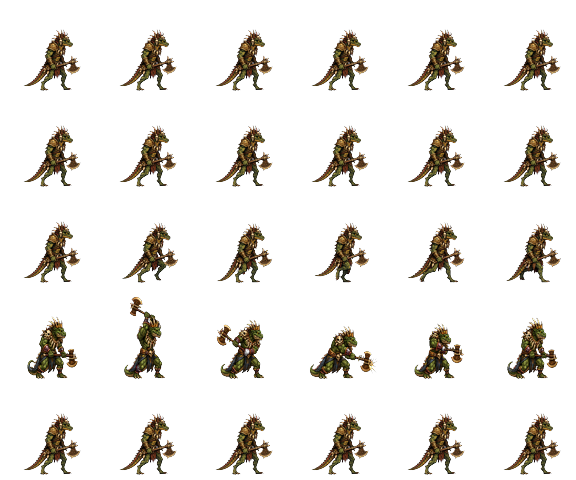
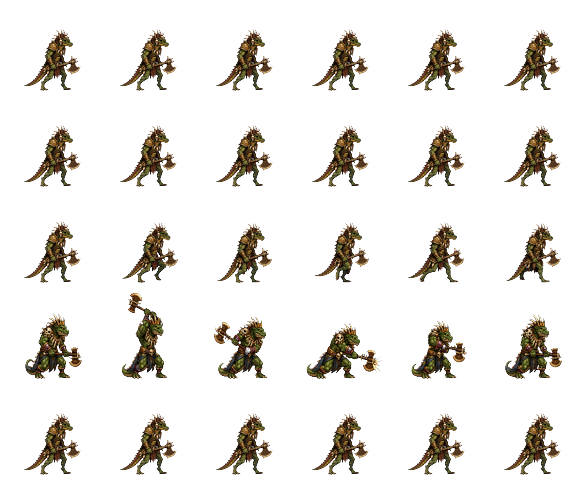
sprite: リザードマン族長の攻撃6コマを v3-tightmatch へ差替 + 黒背景の焼き付きを修正
作業ツリーに数セッション前から残っていた未コミット版は、攻撃行(row3)の
不透明率が 100% (79% が純黒 (0,0,0,255)) で、背景の黒が焼き付いていた。
displaySize 248 で描画されるため、ゲーム内では攻撃モーション中だけ
248px の黒い四角が出る不具合だった。

- codex1 の lizardman-chief-attack-right-6-v3-tightmatch から再パック。
  元フレーム自体は正常な RGBA なので、透過が落ちていたのはパック工程。
- 台帳 tools/codex1_sprites.json の char_ratio を 0.86 → 0.90236 に校正
  (= 0.86 × 533/508。attack 素材の H_max が 508→533 に伸びた分の打ち消し)。
  これで walk/idle/alert/death の 4 行が差替前とバイト完全一致するため、
  displaySize 248 と当たり判定は不変。
- 検証: 分身チェック clean / セル端のはみ出し 0 / 攻撃行の不透明率 14〜17%
  / 台帳の --only lizardChieftain 再パックが md5 一致 (894cc65…)
- 冗長なバックアップ assets/lizardChieftain_anim_before_attack_size_fix.png
  を削除 (HEAD と md5 一致のため情報の損失なし)
- ブラウザキャッシュ対策で index.html の ?v=2 → ?v=3

diff --git a/tavern.html b/tavern.html
@@ -1979,10 +1979,10 @@
     <div id="changelogBox">
       <div class="changelogHeader">📜 更新情報</div>
       <ul class="changelogList">
+        <li><b>リザードマン族長の攻撃モーションを刷新</b> — 斧を振りかぶる動きが一回り大きくなり、沼のボス戦の迫力が増した。</li>
         <li><b>竜の巣の前庭を横スクロール風の構図に</b> — 奥の壁に巣へ続く大穴が口を開け、赤竜の待つ先が絵で見えるようになった。</li>
         <li><b>地下神殿の納骨堂の景色を作り直した</b> — 奥に骨壺の壁龕と、封印された大扉が見えるようになった。</li>
         <li><b>砦の中庭に主塔の城壁が立った</b> — オークの中庭が横スクロール風の構図になり、閉ざされた大扉の向こうに将軍が待つ。</li>
-        <li><b>沼の祭壇広場に神殿の奥壁が立った</b> — リザードマンの広場が横スクロール風の構図になり、奥行きが出た。</li>
       </ul>
     </div>
     <script>

diff --git a/index.html b/index.html
@@ -6361,7 +6361,7 @@
         name: "リザードマン族長",
         flavor: "蛇神を祀る沼の主、ファラクサスの忠実なる走狗",
         badge: "🦎",
-        sprite: "assets/lizardChieftain_anim.png?v=2",
+        sprite: "assets/lizardChieftain_anim.png?v=3",
         sheetW: 576, sheetH: 480,
         frameW: 96, frameH: 96, cols: 6, rowOffset: 0,
         displaySize: 248,                    // 通常の2倍 (玉座のボス感をさらに増大)
